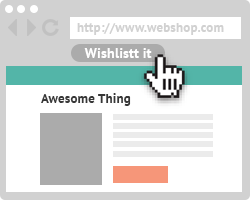
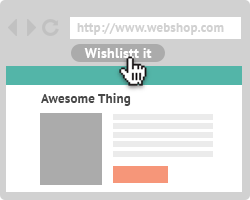
Explanation imgs to front page

Changed region(s): [[0.476, 0.27, 0.756, 0.54], [0.0, 0.03, 0.168, 0.06]]

diff --git a/app/assets/stylesheets/custom.css.scss b/app/assets/stylesheets/custom.css.scss
@@ -172,6 +172,25 @@ textarea {
   }
 }
 
+.home_about {
+  img {
+    margin-bottom: 20px;
+  }
+
+  .imgs .animated {
+    display: none;
+  }
+
+  .imgs:hover {
+    .animated {
+      display: inline;
+    }
+    .non-animated {
+      display: none;
+    }
+  }
+}
+
 
 .about-boxes {
 
